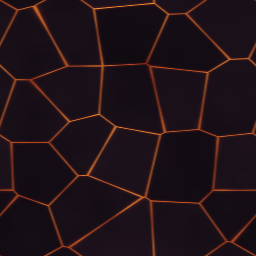
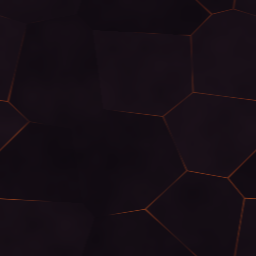
fix(f3): chao W1 terroso com pedras menores e W5 obsidiana com poucas veias de brasa

diff --git a/tools/gen_world_ground.py b/tools/gen_world_ground.py
@@ -108,17 +108,17 @@ def wrap_dx(xx, cx, w):
 
 def body_w1(rng):
     """Pedra de trilha com musgo e folhas (combina com o bambuzal)."""
-    cell, edge = voronoi(rng, W, FILL_H, 5, 3, ystretch=1.35)
+    cell, edge = voronoi(rng, W, FILL_H, 8, 5, ystretch=1.3)  # pedras ~60% do tamanho anterior
     n = fbm(rng, W, FILL_H, 6, 6)
-    tone = rng.random(15)[cell]
+    tone = rng.random(40)[cell]
     t = 0.30 + 0.35 * tone + 0.25 * (n - 0.5)
-    img = ramp(t, [(0.0, (34, 42, 52)), (0.5, (66, 78, 84)), (1.0, (98, 108, 108))])
+    img = ramp(t, [(0.0, (40, 34, 26)), (0.5, (86, 72, 52)), (1.0, (124, 106, 74))])  # terroso marrom-oliva
     # juntas escuras (com leve esverdeado de musgo)
     joint = np.clip(1 - edge / 3.2, 0, 1)[..., None]
-    img = img * (1 - joint * 0.78) + np.array([14, 22, 20]) * joint * 0.78
+    img = img * (1 - joint * 0.78) + np.array([22, 34, 20]) * joint * 0.78
     # musgo em manchas, sobretudo perto das juntas
     moss = np.clip((fbm(rng, W, FILL_H, 5, 5) - 0.52) * 4 + joint[..., 0] * 0.6, 0, 1)[..., None]
-    img = img * (1 - moss * 0.55) + np.array([52, 92, 58]) * moss * 0.55
+    img = img * (1 - moss * 0.55) + np.array([58, 98, 52]) * moss * 0.6
     return img
 
 
@@ -196,17 +196,19 @@ def body_w4(rng):
 
 
 def body_w5(rng):
-    """Obsidiana rachada com brasa nas fissuras (Céu Vermelho)."""
-    cell, edge = voronoi(rng, W, FILL_H, 5, 4, ystretch=1.2)
+    """Obsidiana escura com poucas veias de brasa (Céu Vermelho)."""
+    cell, edge = voronoi(rng, W, FILL_H, 3, 3, ystretch=1.2)  # células maiores, ~40% das fissuras
     n = fbm(rng, W, FILL_H, 8, 8)
-    tone = rng.random(20)[cell]
+    tone = rng.random(9)[cell]
     t = 0.18 + 0.25 * tone + 0.25 * (n - 0.5)
-    img = ramp(t, [(0.0, (12, 8, 14)), (0.5, (32, 20, 30)), (1.0, (62, 38, 48))])
-    # fissura: núcleo bem quente, halo laranja-avermelhado ao redor
-    core = np.clip(1 - edge / 1.8, 0, 1)[..., None]
-    halo = np.clip(1 - edge / 7.0, 0, 1)[..., None] ** 2
-    ember = ramp(np.clip(n * 1.4, 0, 1), [(0.0, (150, 30, 20)), (1.0, (255, 150, 50))])
-    img = img + halo * np.array([90, 20, 8]) * 0.55
+    img = ramp(t, [(0.0, (12, 8, 14)), (0.5, (30, 19, 28)), (1.0, (58, 36, 46))])
+    # só alguns trechos das fissuras acendem (máscara por ruído), brasa escura
+    vein = np.clip((fbm(rng, W, FILL_H, 3, 3) - 0.45) * 5, 0, 1)
+    core = np.clip(1 - edge / 1.4, 0, 1) * vein
+    halo = np.clip(1 - edge / 3.2, 0, 1) ** 2 * vein
+    ember = ramp(np.clip(n * 1.4, 0, 1), [(0.0, (92, 22, 16)), (1.0, (170, 78, 30))])
+    img = img + halo[..., None] * np.array([60, 14, 6]) * 0.4
+    core = core[..., None] * 0.8
     img = img * (1 - core) + ember * core
     return img
 
@@ -293,7 +295,7 @@ def lip_w5(img, rng):
     img = np.where(crust, shade, img)
     n = pnoise(rng, W, 1, 10, 1)[0]
     vein = np.exp(-((yy - 6.5) ** 2) / 2.2) * (0.45 + 0.55 * n[None, :])
-    return img + vein[..., None] * np.array([230, 90, 30]) * 0.55
+    return img + vein[..., None] * np.array([160, 60, 24]) * 0.3
 
 
 LIPS = {1: lip_w1, 2: lip_w2, 3: lip_w3, 4: lip_w4, 5: lip_w5}
